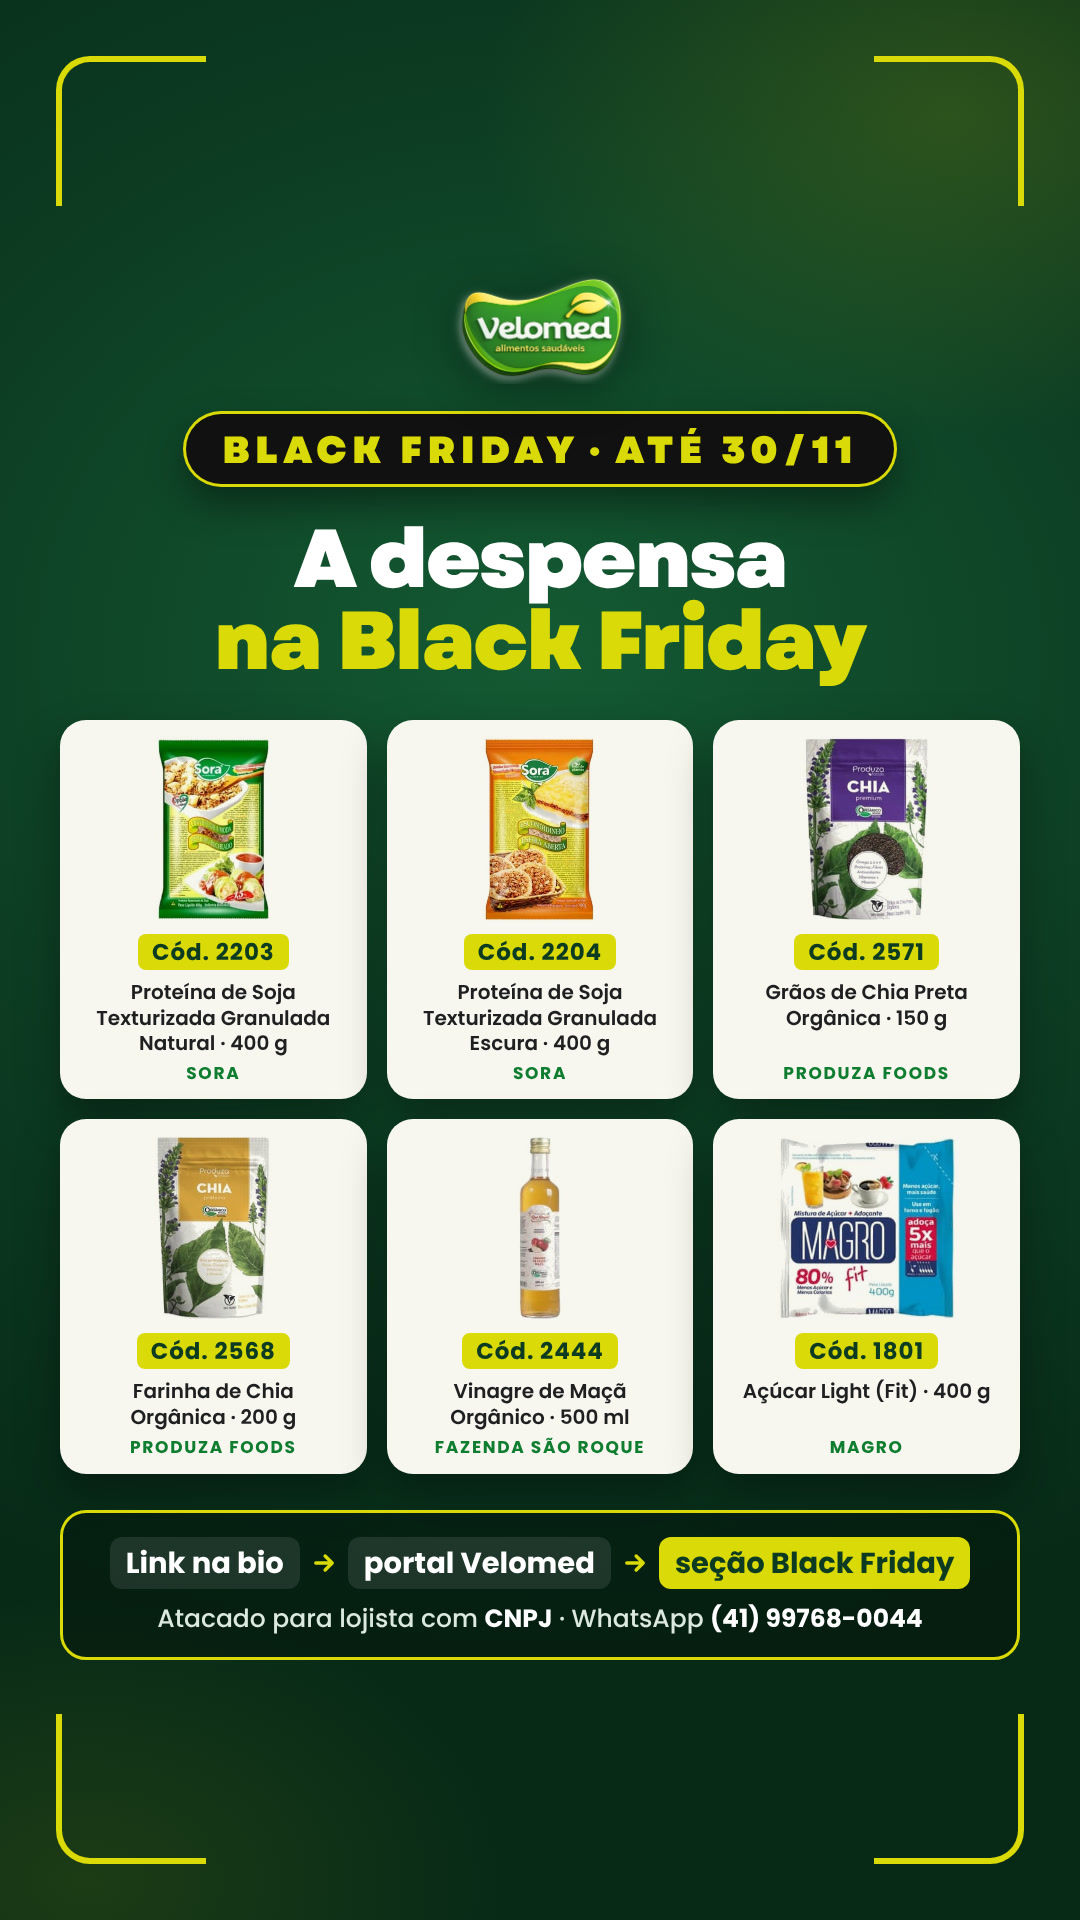
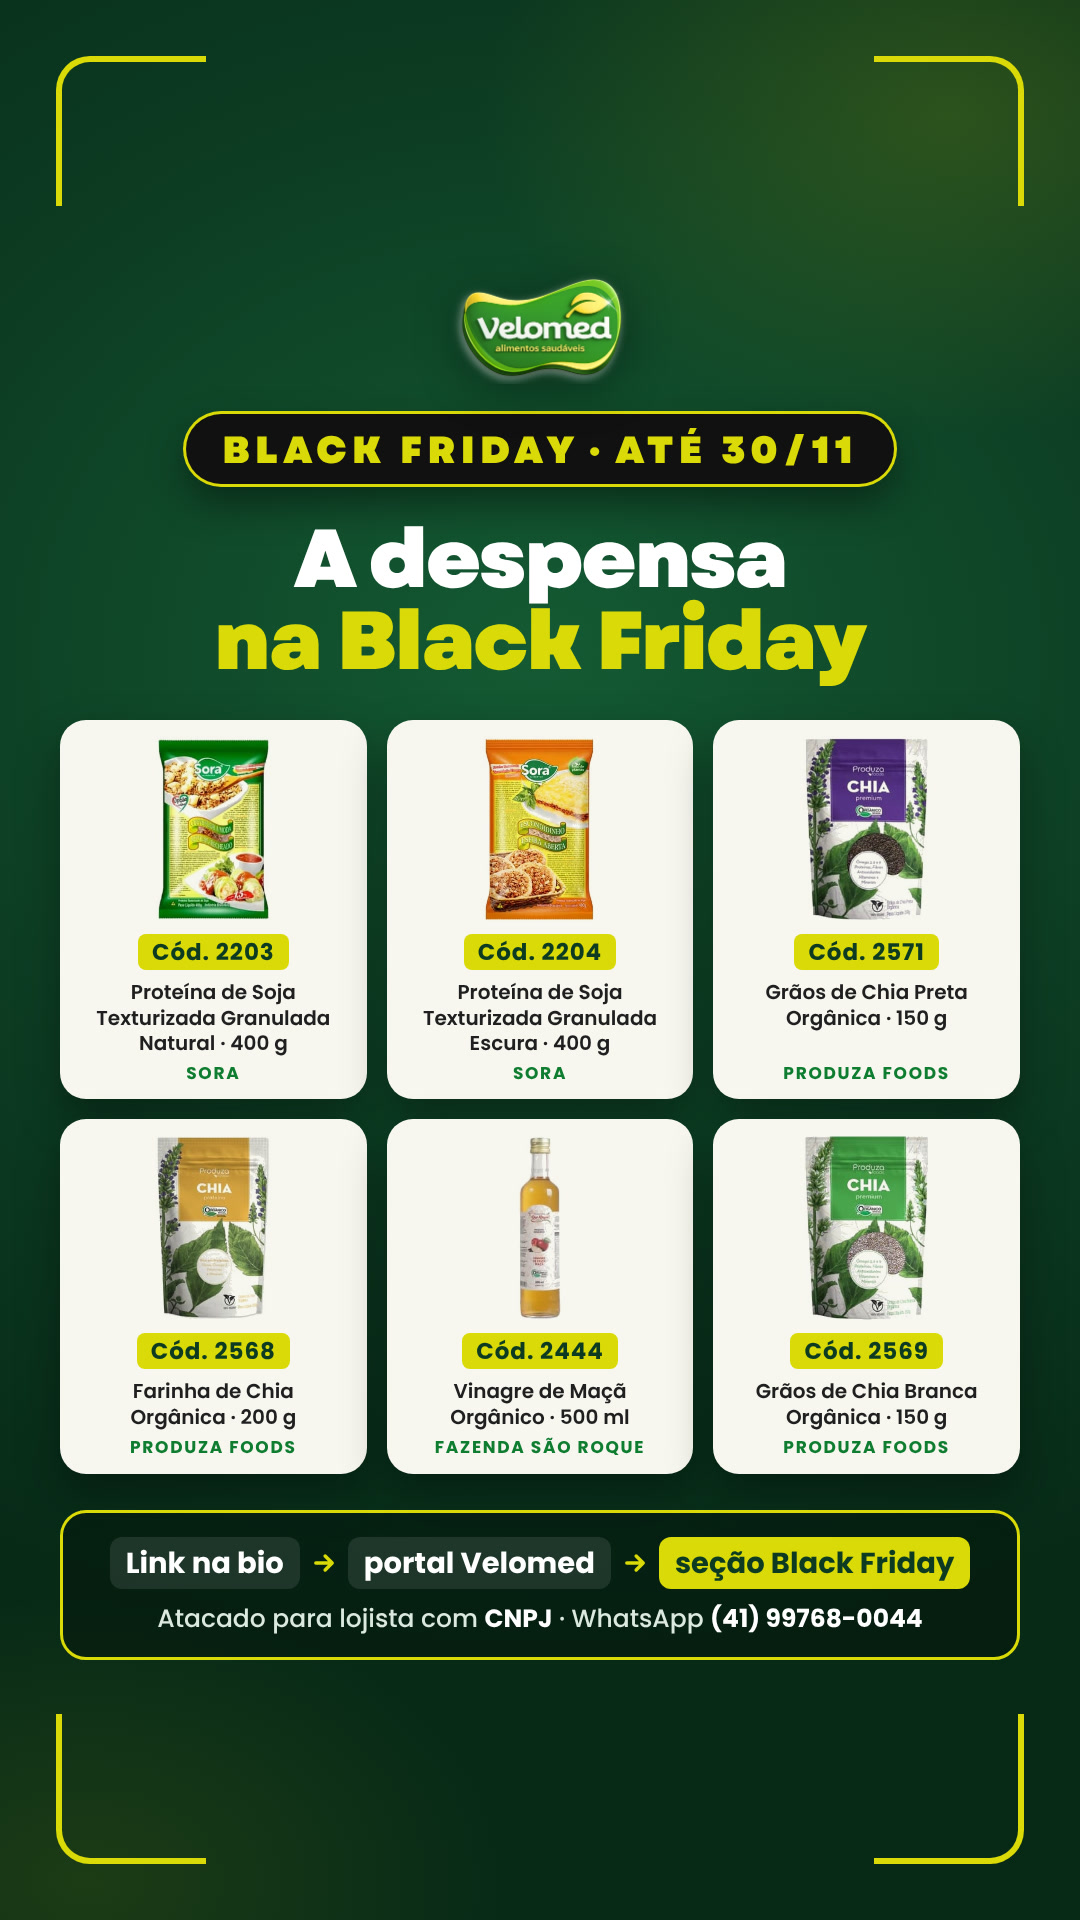
Velomed: stories da Black Friday

Changed region(s): [[0.7028, 0.5938, 0.9167, 0.7812]]

diff --git a/velomed/INDICE.md b/velomed/INDICE.md
@@ -100,9 +100,15 @@ Gerado por `tools/social/sincronizar_midia.py --cliente velomed`. Não edite à 
 | 2026-11-27-17h-story-bf-como-comprar | Carrossel | 1 | Como comprar em 4 passos | 🟨 aguardando ok | [instagram/2026-11/carrosseis/2026-11-27-17h-story-bf-como-comprar](instagram/2026-11/carrosseis/2026-11-27-17h-story-bf-como-comprar/folha.png) |
 | 2026-11-27-19h-carrossel-checklist-black-friday | Carrossel | 8 | O sábado de calor se arruma na sexta | 🟨 aguardando ok | [instagram/2026-11/carrosseis/2026-11-27-19h-carrossel-checklist-black-friday](instagram/2026-11/carrosseis/2026-11-27-19h-carrossel-checklist-black-friday/folha.png) |
 | 2026-11-27-19h-story-guia-checklist-black-friday | Carrossel | 1 | guia de prateleira (o sábado de calor se arruma na sexta) | 🟨 aguardando ok | [instagram/2026-11/carrosseis/2026-11-27-19h-story-guia-checklist-black-friday](instagram/2026-11/carrosseis/2026-11-27-19h-story-guia-checklist-black-friday/folha.png) |
-| 2026-11-28-09h-story-bf-snacks-belive | Carrossel | 1 |  | — | [instagram/2026-11/carrosseis/2026-11-28-09h-story-bf-snacks-belive](instagram/2026-11/carrosseis/2026-11-28-09h-story-bf-snacks-belive/folha.png) |
-| 2026-11-28-16h-story-bf-sem-gluten | Carrossel | 1 |  | — | [instagram/2026-11/carrosseis/2026-11-28-16h-story-bf-sem-gluten](instagram/2026-11/carrosseis/2026-11-28-16h-story-bf-sem-gluten/folha.png) |
-| 2026-11-29-10h-story-bf-despensa | Carrossel | 1 |  | — | [instagram/2026-11/carrosseis/2026-11-29-10h-story-bf-despensa](instagram/2026-11/carrosseis/2026-11-29-10h-story-bf-despensa/folha.png) |
-| 2026-11-29-18h-story-bf-termina-amanha | Carrossel | 1 |  | — | [instagram/2026-11/carrosseis/2026-11-29-18h-story-bf-termina-amanha](instagram/2026-11/carrosseis/2026-11-29-18h-story-bf-termina-amanha/folha.png) |
-| 2026-11-30-09h-story-bf-ultimo-dia | Carrossel | 1 |  | — | [instagram/2026-11/carrosseis/2026-11-30-09h-story-bf-ultimo-dia](instagram/2026-11/carrosseis/2026-11-30-09h-story-bf-ultimo-dia/folha.png) |
-| 2026-11-30-17h-story-bf-ultimas-horas | Carrossel | 1 |  | — | [instagram/2026-11/carrosseis/2026-11-30-17h-story-bf-ultimas-horas](instagram/2026-11/carrosseis/2026-11-30-17h-story-bf-ultimas-horas/folha.png) |
+| 2026-11-28-09h-story-bf-snacks-belive | Carrossel | 1 | Snacks Belive na Black Friday | 🟨 aguardando ok | [instagram/2026-11/carrosseis/2026-11-28-09h-story-bf-snacks-belive](instagram/2026-11/carrosseis/2026-11-28-09h-story-bf-snacks-belive/folha.png) |
+| 2026-11-28-11h-estatico-bf-chas-chamel | Carrossel | 1 | Hoje é Black Friday. Amanhã enche mais. | 🟨 aguardando ok | [instagram/2026-11/carrosseis/2026-11-28-11h-estatico-bf-chas-chamel](instagram/2026-11/carrosseis/2026-11-28-11h-estatico-bf-chas-chamel/folha.png) |
+| 2026-11-28-11h-story-bf-chas-chamel | Carrossel | 1 | gancho (Hoje é Black Friday. Amanhã enche mais.) | 🟨 aguardando ok | [instagram/2026-11/carrosseis/2026-11-28-11h-story-bf-chas-chamel](instagram/2026-11/carrosseis/2026-11-28-11h-story-bf-chas-chamel/folha.png) |
+| 2026-11-28-16h-story-bf-sem-gluten | Carrossel | 1 | Sem glúten na Black Friday (Leve Croc e Natural Life) | 🟨 aguardando ok | [instagram/2026-11/carrosseis/2026-11-28-16h-story-bf-sem-gluten](instagram/2026-11/carrosseis/2026-11-28-16h-story-bf-sem-gluten/folha.png) |
+| 2026-11-29-10h-story-bf-despensa | Carrossel | 1 | A despensa na Black Friday | 🟨 aguardando ok | [instagram/2026-11/carrosseis/2026-11-29-10h-story-bf-despensa](instagram/2026-11/carrosseis/2026-11-29-10h-story-bf-despensa/folha.png) |
+| 2026-11-29-11h-estatico-bf-snacks-belive | Carrossel | 1 | Hoje é Black Friday. Amanhã enche mais. | 🟨 aguardando ok | [instagram/2026-11/carrosseis/2026-11-29-11h-estatico-bf-snacks-belive](instagram/2026-11/carrosseis/2026-11-29-11h-estatico-bf-snacks-belive/folha.png) |
+| 2026-11-29-11h-story-bf-snacks-belive | Carrossel | 1 | gancho (Hoje é Black Friday. Amanhã enche mais.) | 🟨 aguardando ok | [instagram/2026-11/carrosseis/2026-11-29-11h-story-bf-snacks-belive](instagram/2026-11/carrosseis/2026-11-29-11h-story-bf-snacks-belive/folha.png) |
+| 2026-11-29-18h-story-bf-termina-amanha | Carrossel | 1 | A Black Friday da Velomed termina amanhã | 🟨 aguardando ok | [instagram/2026-11/carrosseis/2026-11-29-18h-story-bf-termina-amanha](instagram/2026-11/carrosseis/2026-11-29-18h-story-bf-termina-amanha/folha.png) |
+| 2026-11-30-09h-story-bf-ultimo-dia | Carrossel | 1 | Último dia da Black Friday Velomed | 🟨 aguardando ok | [instagram/2026-11/carrosseis/2026-11-30-09h-story-bf-ultimo-dia](instagram/2026-11/carrosseis/2026-11-30-09h-story-bf-ultimo-dia/folha.png) |
+| 2026-11-30-11h-estatico-bf-ultimo-dia | Carrossel | 1 | Hoje é Black Friday. Amanhã enche mais. | 🟨 aguardando ok | [instagram/2026-11/carrosseis/2026-11-30-11h-estatico-bf-ultimo-dia](instagram/2026-11/carrosseis/2026-11-30-11h-estatico-bf-ultimo-dia/folha.png) |
+| 2026-11-30-11h-story-bf-ultimo-dia | Carrossel | 1 | gancho (Hoje é Black Friday. Amanhã enche mais.) | 🟨 aguardando ok | [instagram/2026-11/carrosseis/2026-11-30-11h-story-bf-ultimo-dia](instagram/2026-11/carrosseis/2026-11-30-11h-story-bf-ultimo-dia/folha.png) |
+| 2026-11-30-17h-story-bf-ultimas-horas | Carrossel | 1 | Últimas horas: a Black Friday Velomed vai até hoje à noite | 🟨 aguardando ok | [instagram/2026-11/carrosseis/2026-11-30-17h-story-bf-ultimas-horas](instagram/2026-11/carrosseis/2026-11-30-17h-story-bf-ultimas-horas/folha.png) |
